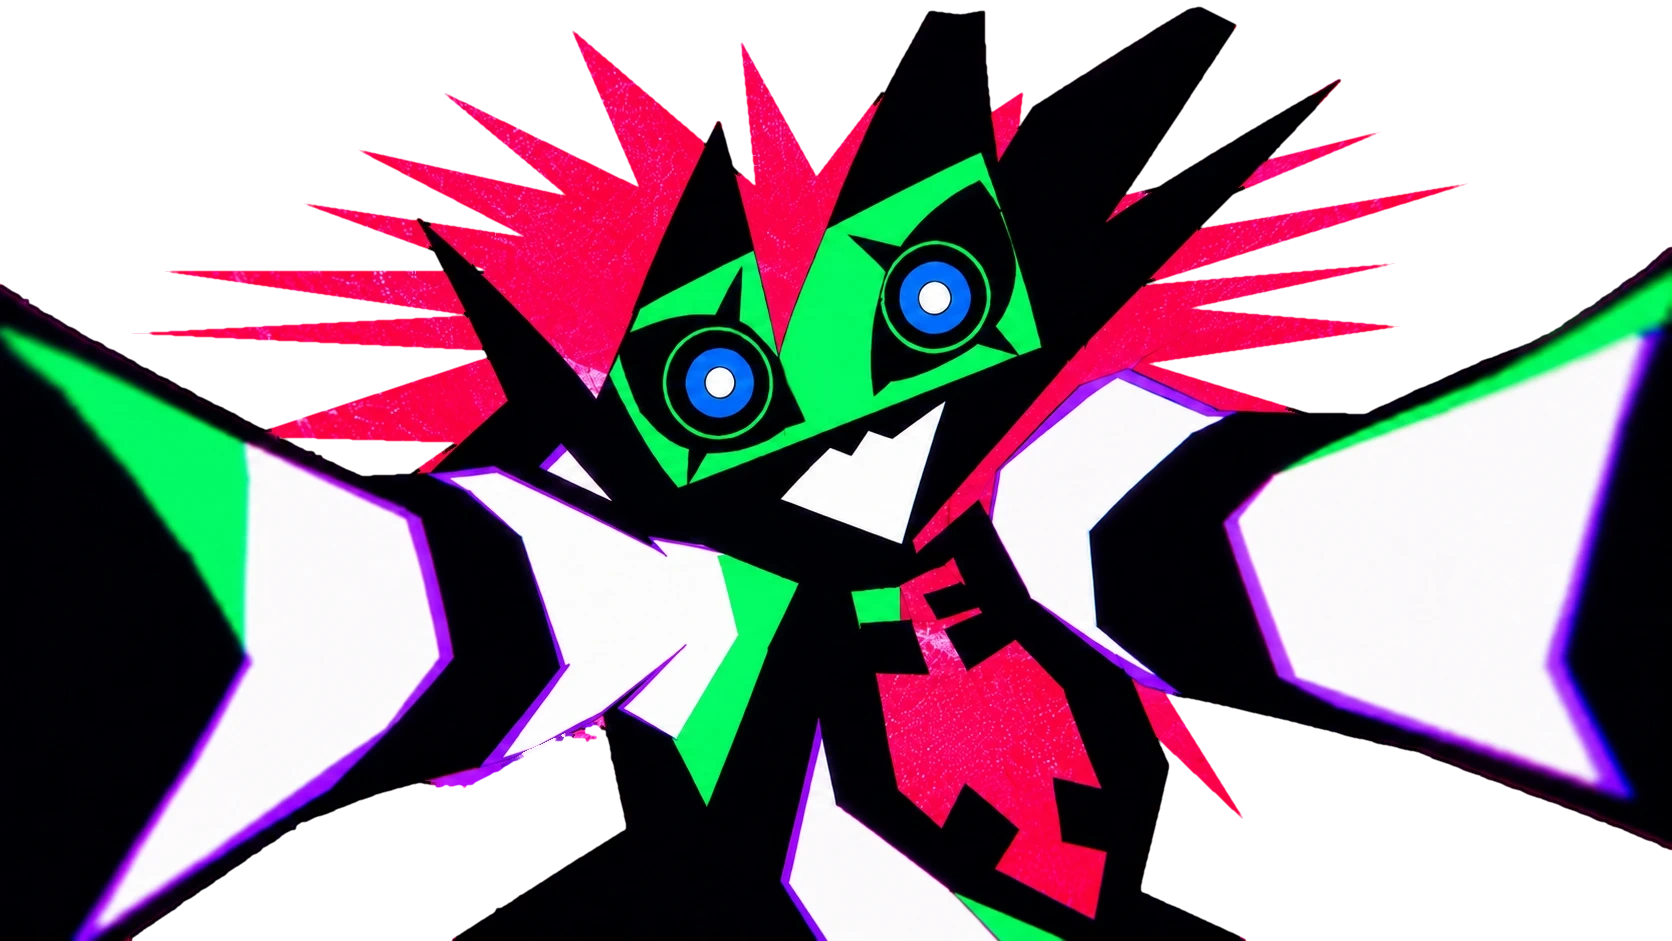
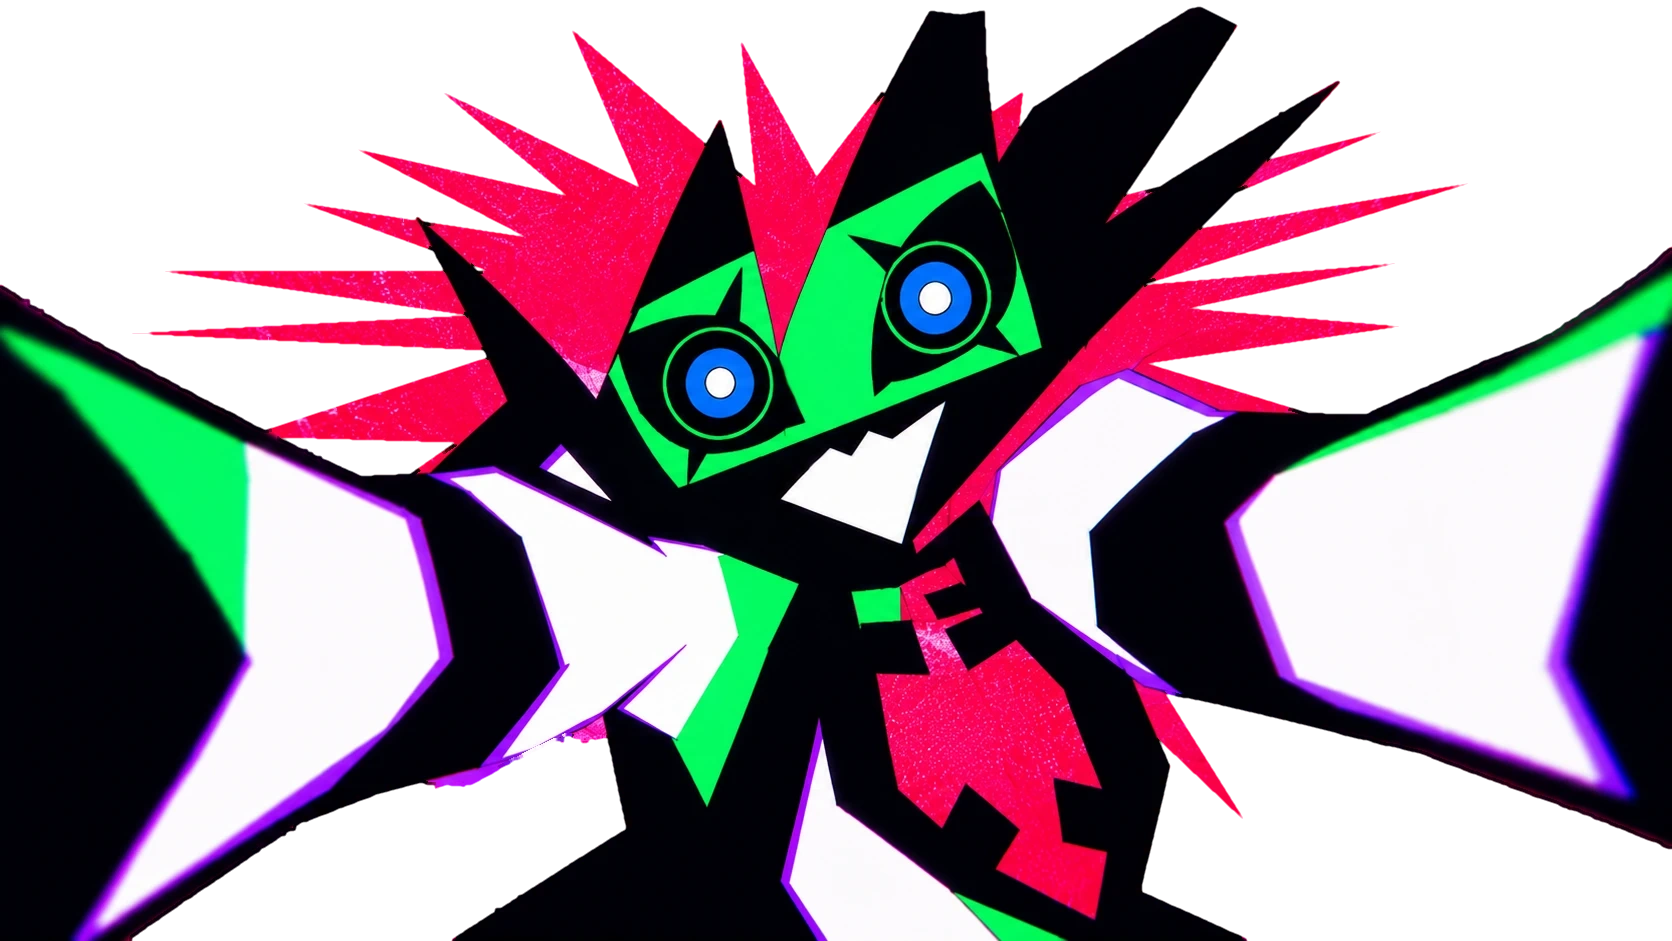
Her intro: a three-pose wave, her arm smeared on and off the edge, her eyes shut with joy
- Her wave goes left, up, right, up, left (three drawings each); her arm leaves the right edge in
  a smear and comes back onto it in another, then she shuts her eyes with joy before looking at
  where she's going.
- Only what changes is taken from each drawing (her mouth, her arm, her eyes), the rest from her
  at rest: the grain of her mane and her belly don't shimmer any more when they're swapped.

diff --git a/src/renderer/js/fx.js b/src/renderer/js/fx.js
@@ -33,11 +33,16 @@ const GRAB = {
   tag: { x: 1110, y: 175 }, // where "hi" pops, by her face
   hands: [{ x: 0, y: 610 }, { x: 1672, y: 520 }], // where her hands hold the edges of the screen
 };
-const INTRO_T = { hands: 6, right: 8, reach: 10, grab: 16, hold: 21, blink: 29, hi: 34, wave: 46, regrab: 64, slip: 70, antic: 76, shrink: 78, land: 88, end: 91 };
-// her close-up's drawings (assets/capri/intro-<name>.webp), the same picture with only her mouth or
-// her right arm changed: at rest, her mouth ajar, half open and wide open, and waving (her hand
-// tilted one way, then the other)
-export const GRAB_FRAMES = ['grab', 'mouth1', 'mouth2', 'mouth3', 'wave1', 'wave2'];
+const INTRO_T = { hands: 6, right: 8, reach: 10, grab: 16, hold: 21, blink: 29, hi: 34, wave: 46, regrab: 63, happy: 65, glance: 75, slip: 80, antic: 86, shrink: 88, land: 98, end: 101 };
+// her close-up's drawings (assets/capri/intro-<name>.webp), the same picture with only her mouth,
+// her eyes or her right arm changed: at rest, her mouth ajar, half open and wide open, waving (her
+// hand tilted left, right, straight up), her arm a smear between the edge and her face, and her
+// eyes shut with joy
+export const GRAB_FRAMES = ['grab', 'mouth1', 'mouth2', 'mouth3', 'wave1', 'wave2', 'wave3', 'smear', 'happy'];
+// the wave, after the smear of her arm leaving the edge: three drawings each
+const WAVE = ['wave1', 'wave3', 'wave2', 'wave3', 'wave1'];
+// drawings whose eyes are their own (not redrawn over: they don't look around)
+const OWN_EYES = new Set(['happy']);
 // "hi", from her mouth starting to open (in drawings at 24 fps, two each)
 const SAY_HI = ['mouth1', 'mouth1', 'mouth3', 'mouth3', 'mouth3', 'mouth3', 'mouth2', 'mouth2', 'mouth1', 'mouth1'];
 
@@ -589,7 +594,7 @@ export class FxLayer {
       ctx.globalCompositeOperation = 'source-over';
     } else {
       ctx.drawImage(this.grabFrames[cel] || this.grab, 0, 0);
-      GRAB.eyes.forEach((e) => this.grabEye(e, look, open));
+      if (!OWN_EYES.has(cel) || !this.grabFrames[cel]) GRAB.eyes.forEach((e) => this.grabEye(e, look, open));
     }
     ctx.restore();
   }
@@ -1446,8 +1451,8 @@ export class FxLayer {
           }
           if (f === T.hi + 2) it.onCue('hi'); // her mouth wide open
           if (f === T.wave) it.onCue('wave');
-          if (f === T.regrab) {
-            it.onCue('hand');
+          if (f === T.happy) {
+            it.onCue('hand'); // her hand back on the edge
             if (!it.still) this.crackle(hands[1], { life: 220, radius: 50 });
           }
           if (f === T.slip) it.onCue('slip');
@@ -1472,7 +1477,7 @@ export class FxLayer {
         if (since < 3) look = { x: 0, y: 0 };
         else if (since < 7) look = { x: -10, y: -3 };
         else if (since < 11) look = { x: 10, y: -4 };
-        else if (frame >= T.regrab) look = { x: toward.x * 10, y: toward.y * 7 };
+        else if (frame >= T.glance) look = { x: toward.x * 10, y: toward.y * 7 };
         const b = frame - T.blink;
         const open = b === 0 || b === 3 ? 0.5 : b === 1 || b === 2 ? 0 : 1;
         // the line boiling: a new drawing every other frame, a pixel or two off the last
@@ -1537,17 +1542,22 @@ export class FxLayer {
         if (frame < T.slip) {
           // holding on: she breathes and boils, the camera creeping in on her, shards of her mane
           // drifting off. She says "hi" (her mouth opening over three drawings, wide on the tag
-          // popping, her head bobbing), then lets go of the right edge and waves, her hand tilting
-          // one way then the other on threes, and grabs it again. Now and then her colours slip.
+          // popping, her head bobbing), then her arm leaves the right edge in a smear and she waves,
+          // her hand tilting left, up, right, up, left on threes; a smear back onto the edge, and
+          // she shuts her eyes with joy. Now and then her colours slip.
           const h0 = frame - T.hi - 2;
-          const w0 = frame - T.wave;
           let cel = SAY_HI[frame - T.hi] ?? 'grab';
-          let snap = 0, shake = 0;
-          if (w0 >= 0 && frame < T.regrab) {
-            cel = w0 === 0 ? 'wave1' : Math.floor((w0 - 1) / 3) % 2 ? 'wave2' : 'wave1';
-            if (w0 === 0) [snap, shake] = [10, 6]; // her hand snapping off the edge
-          } else if (frame >= T.regrab && frame < T.regrab + 2) {
-            [snap, shake] = [[6, 8], [3, -4]][frame - T.regrab]; // and slamming back onto it
+          let shake = 0;
+          if (frame >= T.wave && frame < T.wave + 2) {
+            cel = 'smear'; // her arm off the edge
+            if (frame === T.wave) shake = 6;
+          } else if (frame >= T.wave + 2 && frame < T.regrab) {
+            cel = WAVE[Math.floor((frame - T.wave - 2) / 3)] ?? 'wave1';
+          } else if (frame >= T.regrab && frame < T.happy) {
+            cel = 'smear'; // and back onto it
+          } else if (frame >= T.happy && frame < T.glance) {
+            cel = 'happy';
+            if (frame < T.happy + 2) shake = [8, -4][frame - T.happy]; // her hand slamming onto it
           }
           if (frame % 5 === 0 && it.drifted !== frame) {
             it.drifted = frame; // once per frame, however often it's drawn
@@ -1559,8 +1569,8 @@ export class FxLayer {
           const bob = h0 >= 0 && h0 < 8 ? [0.024, 0.024, -0.017, -0.017, 0.009, 0.009, 0, 0][h0] : 0;
           const pop = h0 === 0 || h0 === 1 ? [0.025, 0.012][h0] : 0;
           const k = 1.025 + pop + creep + 0.006 * Math.sin(t / 7);
-          const glitch = frame % 24 === 19 ? 6 : 0;
-          this.grabbed(it, at.x + noise(1) * 1.5 + shake, at.y + noise(2) * 1.5, k, { rot: noise(3) * 0.003 + bob, look, open, cel, split: snap || glitch });
+          const glitch = frame % 24 === 19 && cel === 'grab' ? 6 : 0; // (the split is of her at rest)
+          this.grabbed(it, at.x + noise(1) * 1.5 + shake, at.y + noise(2) * 1.5, k, { rot: noise(3) * 0.003 + bob, look, open, cel, split: glitch });
           if (h0 >= 0) hi([0.35, 1.22, 0.94][h0] ?? 1);
           break;
         }

diff --git a/tools/build-intro.py b/tools/build-intro.py
@@ -3,11 +3,14 @@ their red background. What stays: her figure (everything that isn't the mane's h
 what's joined to her) and a jagged burst of mane around her head; the rest is see-through, so
 your desktop shows around her. Every drawing is cut the same way, so they can be swapped like
 cels: `grab` is her at rest (both hands on the edges, mouth shut), the others are the same picture
-with only her mouth or her right arm changed (fx.js GRAB_FRAMES). fx.js knows where her face, eyes
-and hands are on them (GRAB): keep the framing (1672x941, her eyes in the same place) or update it.
+with only her mouth, her eyes or her right arm changed (fx.js GRAB_FRAMES), and only that change is taken
+from them (CHANGES), so nothing else shimmers when they're swapped. fx.js knows where her face,
+eyes and hands are on them (GRAB): keep the framing (1672x941, her eyes in the same place) or
+update it. Give `grab` along with the others.
 
     python tools/build-intro.py grab=rest.webp mouth1=ajar.webp mouth2=half.webp mouth3=wide.webp \\
-        wave1=wave-left.webp wave2=wave-right.webp
+        wave1=wave-left.webp wave2=wave-right.webp wave3=wave-up.webp smear=arm-blur.webp \\
+        happy=eyes-shut.webp
 
 writes assets/capri/intro-<name>.webp for each. Needs Pillow.
 """
@@ -24,6 +27,14 @@ HEAD = (830, 330)   # the middle of her mane burst
 BODY = (836, 600)   # a point on her, to keep only what's joined to her
 BELLY = (980, 760)  # a point on her belly: red like the mane, but hers (see belly)
 BELLY_MAX = 330     # wider than this, a run of red isn't her belly any more (it's the background)
+# where each kind of drawing changes her (by the start of its name): only that is taken from it,
+# the rest from `grab` (see settled). A kind not listed is taken whole.
+CHANGES = {
+    'mouth': (690, 360, 1020, 650),  # her mouth
+    'wave': (930, 120, 1672, 941),   # her right arm, off the edge and up by her face
+    'smear': (930, 120, 1672, 941),  # the same arm, a blur between the edge and her face
+    'happy': (600, 180, 1060, 470),  # her eyes, shut with joy
+}
 
 
 def belly(fig):
@@ -161,13 +172,35 @@ def cut(im):
     return unfringe(out)
 
 
+def settled(base, im, box):
+    """`im` with only what really changed in it, inside `box`, kept; everything else is `base`'s.
+    An AI edit redraws the whole picture, the grain of her mane and her belly a little differently
+    each time: swapped like cels, that would shimmer. Its changes (a mouth, an arm) are found by
+    how far they are from `base` (the grain's small differences don't count), grown a little to
+    take their edges, and blended in over a soft edge so no seam shows."""
+    r, g, b = (ImageChops.difference(x, y) for x, y in zip(base.split(), im.split()))
+    diff = ImageChops.lighter(ImageChops.lighter(r, g), b)  # the most any of its channels moved
+    changed = diff.filter(ImageFilter.GaussianBlur(2)).point(lambda v: 255 if v > 48 else 0)
+    inside = Image.new('L', base.size, 0)
+    ImageDraw.Draw(inside).rectangle(box, fill=255)
+    changed = ImageChops.multiply(changed, inside)
+    # specks of grain out, then grown over the change's own edges, then a soft border
+    changed = changed.filter(ImageFilter.MinFilter(3)).filter(ImageFilter.MaxFilter(17)).filter(ImageFilter.GaussianBlur(5))
+    return Image.composite(im, base, changed)
+
+
 def main():
     pairs = [arg.split('=', 1) for arg in sys.argv[1:]]
     if not pairs or any(len(p) != 2 for p in pairs):
         sys.exit(__doc__)
-    for name, path in pairs:
+    sources = {name: framed(path) for name, path in pairs}
+    base = sources.get('grab')
+    for name, im in sources.items():
+        box = next((b for kind, b in CHANGES.items() if name.startswith(kind)), None)
+        if base is not None and name != 'grab' and box:
+            im = settled(base, im, box)
         target = OUT / f'intro-{name}.webp'
-        cut(framed(path)).save(target, 'WEBP', quality=95, method=6)
+        cut(im).save(target, 'WEBP', quality=95, method=6)
         print('written', target)
 
 
